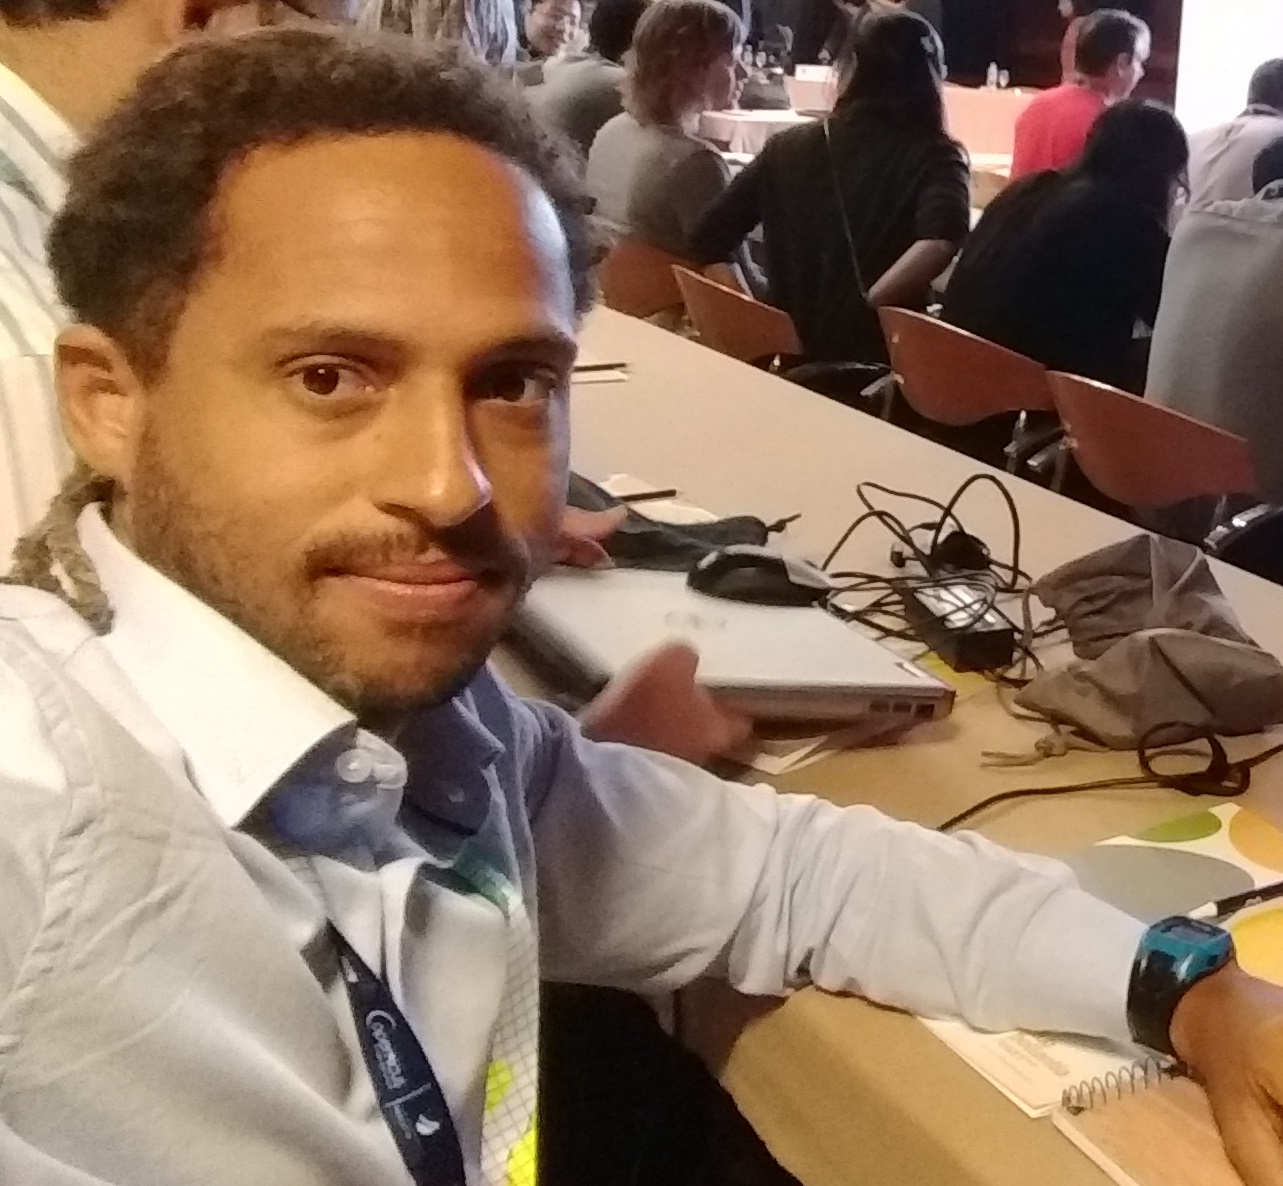
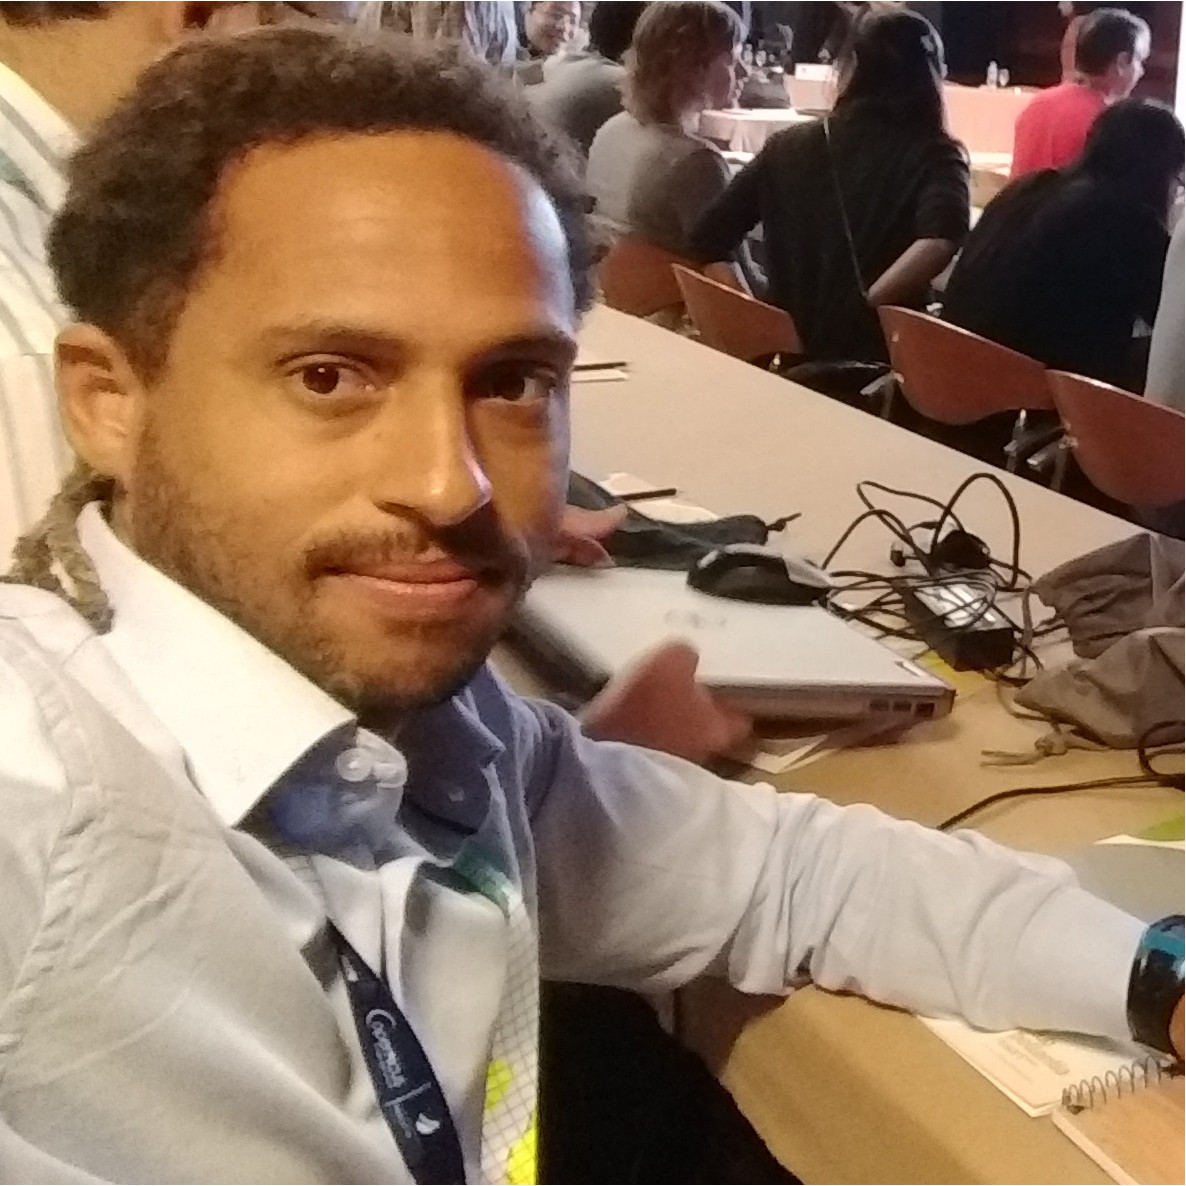
deploy: 1e723033886bd5b2bef7067cb83c1334c109349f

diff --git a/team/index.html b/team/index.html
@@ -270,7 +270,7 @@
 </div>
 <div class="col-12 col-md-6 mb-2"><div class="team team-summary team-summary-large">
 <div class=team-image>
-<img alt="Photo of Guillaume Boutin" class="img-fluid mb-2" src=/images/team/guillauleboutin.jpg>
+<img alt="Photo of Guillaume Boutin" class="img-fluid mb-2" src=/images/team/GuillaumeBoutin.png>
 </div>
 <div class=team-meta>
 <h2 class=team-name><a target=_blank href=https://www.nersc.no/staff/guillaume-boutin>Guillaume Boutin</a> </h2>

diff --git a/team/guillaume-boutin/index.html b/team/guillaume-boutin/index.html
@@ -100,7 +100,7 @@
 <h2></h2>
 </div>
 <div class="col-12 col-lg-12" style=max-height:400px;overflow:hidden>
-<img class=img-fluid src=/images/team/guillauleboutin.jpg>
+<img class=img-fluid src=/images/team/GuillaumeBoutin.png>
 </div>
 </div>
 </div>
